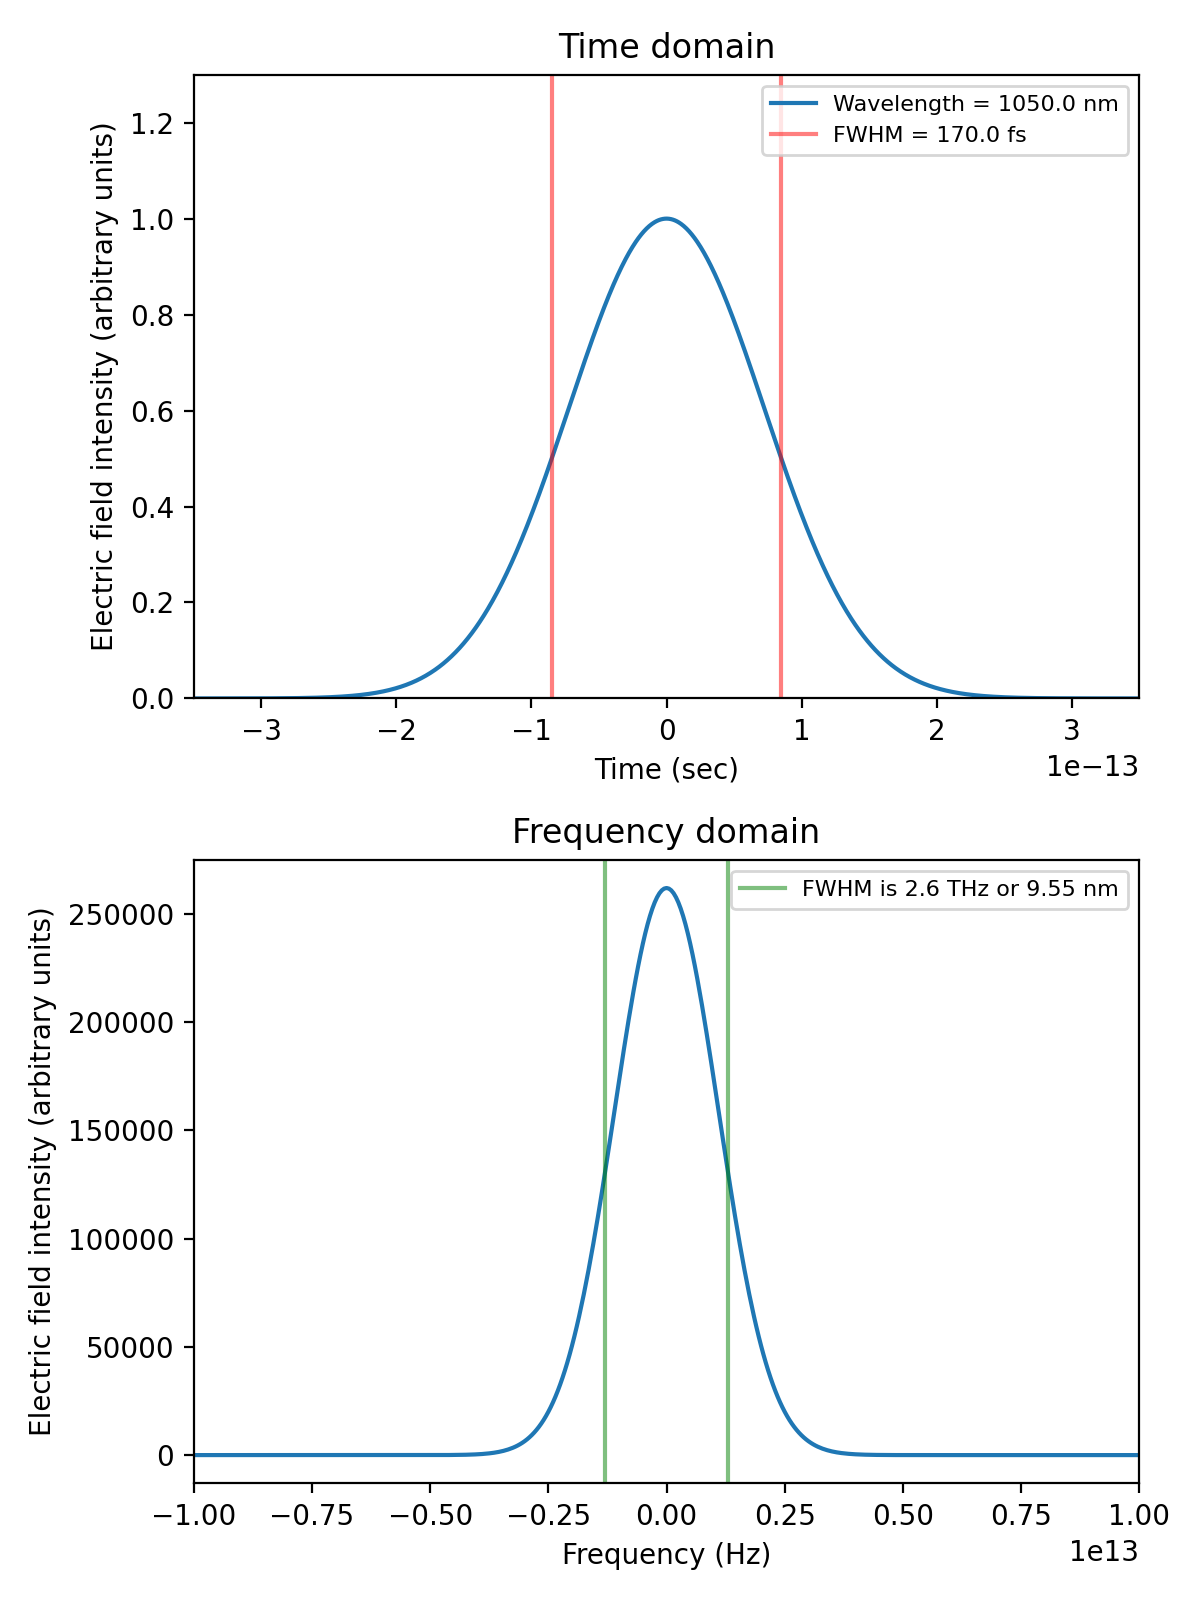
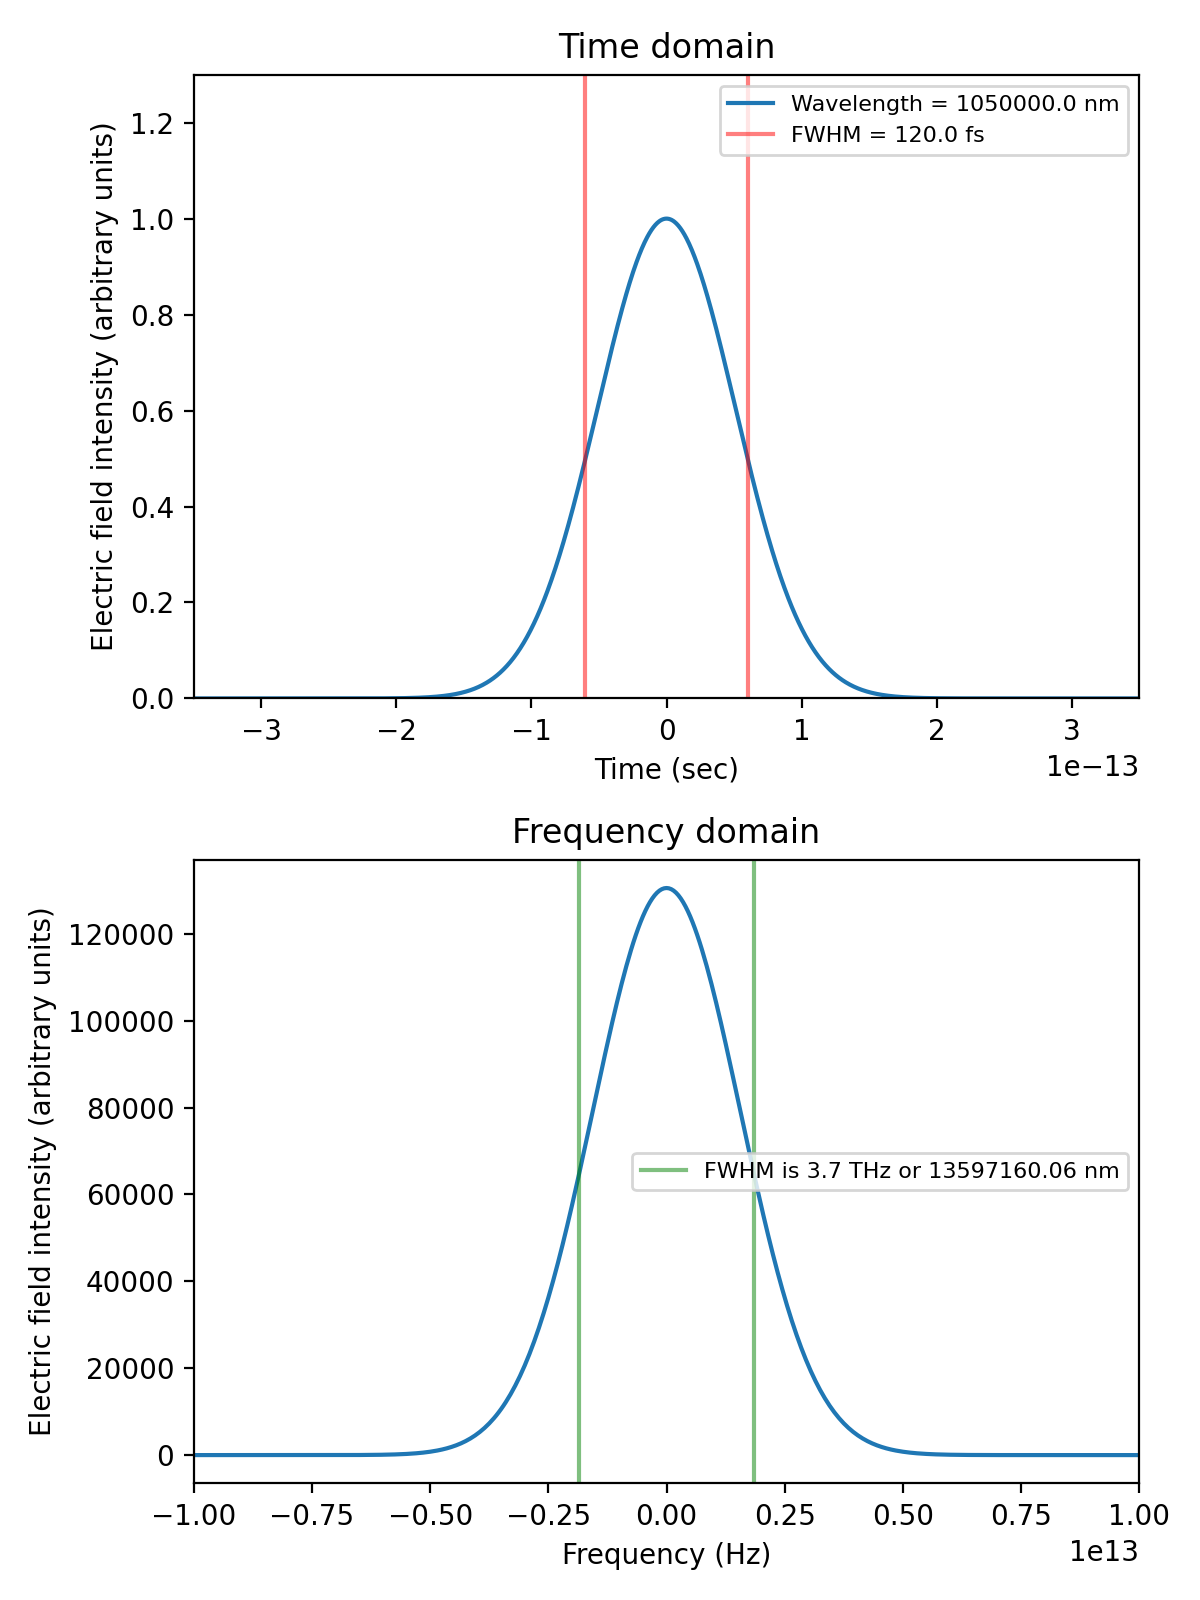
transform code to class architecture

diff --git a/dispersion.py b/dispersion.py
@@ -2,59 +2,65 @@ import matplotlib.pyplot as plt
 import numpy as np
 
 
-def timePulse(FWHM, TL):
-    time = np.linspace(-10000e-15, 10000e-15, 40000)
-    IntensityTime = np.exp(-time**2 / (2*(FWHM / 2.35482)**2))
-    IntensityTimeNonTL = np.exp(-time**2 / (2*(FWHM / TL / 2.35482)**2))
-    EfieldTime = np.sqrt(IntensityTimeNonTL)
-    return time, IntensityTime, EfieldTime
+class Pulse:
+    def __init__(self, duration, TL, wavelength):
+        self.duration = duration
+        self.TL = TL
+        self.wavelength = wavelength
+
+    def timeProfile(self):
+        time = np.linspace(-10000e-15, 10000e-15, 40000)
+        IntensityTime = np.exp(-time**2 / (2*(self.duration / 2.35482)**2))
+        IntensityTimeNonTL = np.exp(-time**2 / (2*(self.duration / self.TL / 2.35482)**2))
+        EfieldTime = np.sqrt(IntensityTimeNonTL)
+        return time, IntensityTime, EfieldTime
 
 
-def spectralWidth(mu, time, timeSpectra):
-    EfieldFrequency = np.abs(np.fft.fftshift(np.fft.fft(timeSpectra)))
-    IntensityFrequency = EfieldFrequency**2
-    frequency  = np.fft.fftshift(np.fft.fftfreq(EfieldFrequency.shape[0],time[1]-time[0]))
+    def spectralWidth(self, time, timeSpectra):
+        EfieldFrequency = np.abs(np.fft.fftshift(np.fft.fft(timeSpectra)))
+        IntensityFrequency = EfieldFrequency**2
+        frequency  = np.fft.fftshift(np.fft.fftfreq(EfieldFrequency.shape[0],time[1]-time[0]))
 
-    FWHMfreq = 2 * np.abs(frequency[ np.argmin(np.abs(0.5*np.max(IntensityFrequency)-IntensityFrequency))])
-    FWHMwavelength = mu**2 * FWHMfreq/3e8
-    return frequency, IntensityFrequency, FWHMfreq, FWHMwavelength
-
-
-def dispersion(time, IntensityTime, glass, thickness, FWHMwavelength):
-    pass
+        FWHMfreq = 2 * np.abs(frequency[ np.argmin(np.abs(0.5*np.max(IntensityFrequency)-IntensityFrequency))])
+        FWHMwavelength = self.wavelength**2 * FWHMfreq/3e8
+        return frequency, IntensityFrequency, FWHMfreq, FWHMwavelength
 
 
-def plotPulses(time, IntensityTime, frequency, IntensityFrequency, mu, FWHM, FWHMfreq, FWHMwavelength):
-    fig, axs = plt.subplots(2,1, figsize=(6,8))
-
-    axs[0].set_title('Time domain')
-    axs[0].plot(time,IntensityTime, label="Wavelength = %.1f nm"%(mu*10**9))
-    axs[0].axvline(-FWHM*0.5, color='r', alpha=0.5, label='FWHM = %.1f fs'%(FWHM*1e15))
-    axs[0].axvline( FWHM*0.5, color='r', alpha=0.5)
-
-    axs[0].set_xlim(-350e-15, 350e-15)
-    axs[0].set_ylim(0,1.3)
-    axs[0].set_xlabel('Time (sec)')
-
-    axs[1].set_title('Frequency domain')
-    axs[1].plot(frequency,IntensityFrequency)
-
-    axs[1].axvline(-FWHMfreq*0.5, color='g', alpha=0.5, label='FWHM is %.1f THz or %0.2f nm'%(FWHMfreq*10**-12, FWHMwavelength*10**9))
-    axs[1].axvline( FWHMfreq*0.5, color='g', alpha=0.5)
-
-    axs[1].set_xlim(-1.0e13,1.0e13)
-    #axs[1].set_ylim(0,30000)
-    axs[1].set_xlabel('Frequency (Hz)')
-
-    for ax in axs:
-        ax.legend(fontsize=8)
-        ax.set_ylabel('Electric field intensity (arbitrary units)')
-
-    plt.tight_layout()
-    plt.savefig('time-bandwidth-product.png', dpi=200)
-    plt.show()
+    def dispersion(self, time, IntensityTime, glass, thickness, FWHMwavelength):
+        pass
 
 
-(t, It, Et) = timePulse(170e-15, 1)
-(f, If, w1, w2) = spectralWidth(1050e-9, t, Et)
-plotPulses(t, It, f, If, 1050e-9, 170e-15, w1, w2)
+    def plotPulses(self, time, IntensityTime, frequency, IntensityFrequency, FWHMfreq, FWHMwavelength):
+        fig, axs = plt.subplots(2,1, figsize=(6,8))
+
+        axs[0].set_title('Time domain')
+        axs[0].plot(time,IntensityTime, label="Wavelength = %.1f nm"%(self.wavelength*10**9))
+        axs[0].axvline(-self.duration*0.5, color='r', alpha=0.5, label='FWHM = %.1f fs'%(self.duration*1e15))
+        axs[0].axvline( self.duration*0.5, color='r', alpha=0.5)
+
+        axs[0].set_xlim(-350e-15, 350e-15)
+        axs[0].set_ylim(0,1.3)
+        axs[0].set_xlabel('Time (sec)')
+
+        axs[1].set_title('Frequency domain')
+        axs[1].plot(frequency,IntensityFrequency)
+
+        axs[1].axvline(-FWHMfreq*0.5, color='g', alpha=0.5, label='FWHM is %.1f THz or %0.2f nm'%(FWHMfreq*10**-12, FWHMwavelength*10**9))
+        axs[1].axvline( FWHMfreq*0.5, color='g', alpha=0.5)
+
+        axs[1].set_xlim(-1.0e13,1.0e13)
+        #axs[1].set_ylim(0,30000)
+        axs[1].set_xlabel('Frequency (Hz)')
+
+        for ax in axs:
+            ax.legend(fontsize=8)
+            ax.set_ylabel('Electric field intensity (arbitrary units)')
+
+        plt.tight_layout()
+        plt.savefig('time-bandwidth-product.png', dpi=200)
+        plt.show()
+
+pulseTest = Pulse(120e-15, 1, 1050e-6)
+(t, It, Et) = pulseTest.timeProfile()
+(f, If, w1, w2) = pulseTest.spectralWidth(t, Et)
+pulseTest.plotPulses(t, It, f, If, w1, w2)
